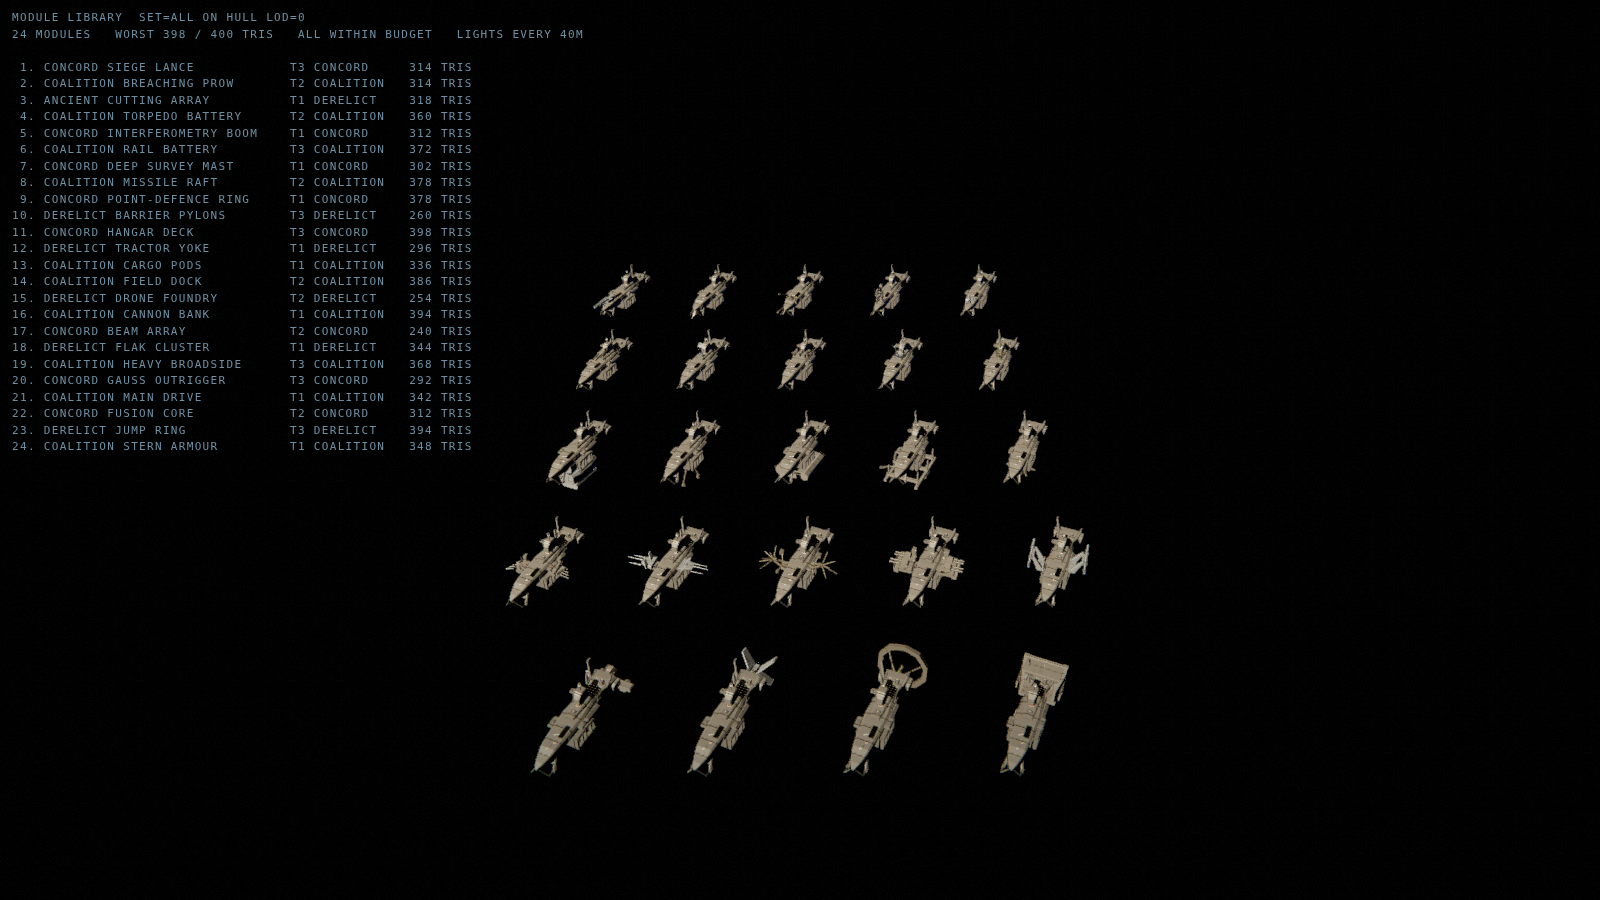
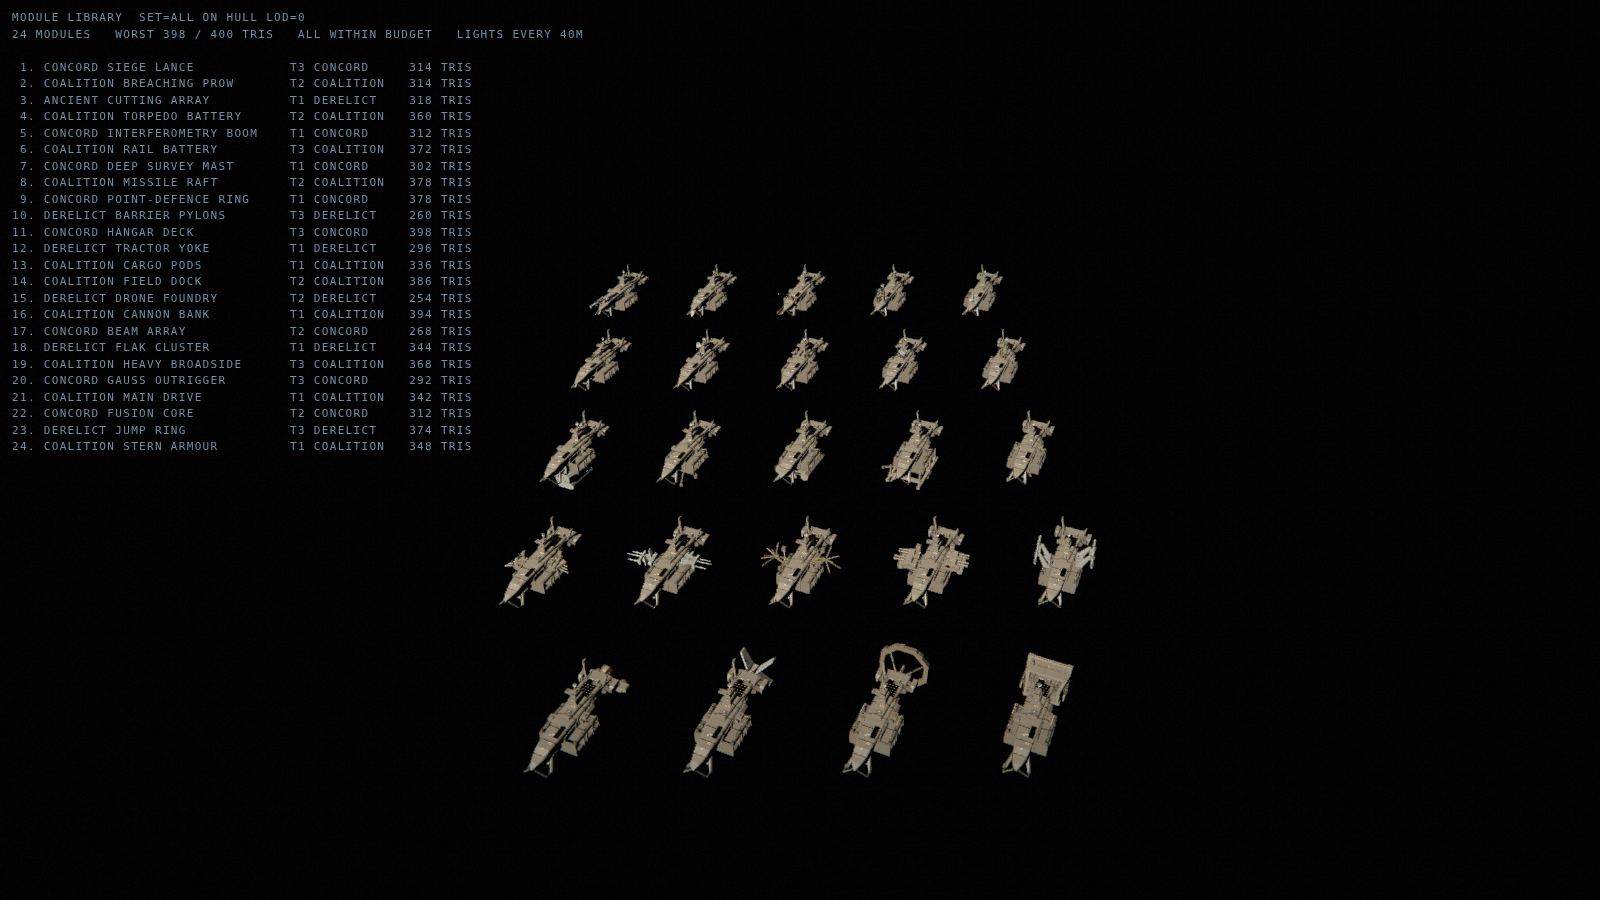
In-flight art work recovered after container restart
Claude-Session: https://claude.ai/code/session_015jvdszNLHKCdWey4BV1AZL

diff --git a/src/art/geometry/cruiser.js b/src/art/geometry/cruiser.js
@@ -940,11 +940,12 @@ export function hullParts({ rng, lod = 0 }) {
   // These three are, and all three are cheap:
   //
   //   the hangar mouth   54 x 34 m, i.e. three fighters wide (a fighter is 18 m)
-  //   the boat bay hatch 26 x 18 m, exactly one fighter
   //   the window band    5 m glazing, one storey                (built above)
   //
-  // The hangar is on the PORT flank only and the hatch is on the starboard foredeck,
-  // because a matched pair would read as styling rather than as function.
+  // There were three. The 26 x 18 m boat-bay hatch on the starboard foredeck is gone:
+  // one human-scale cue on each of two surfaces is a calibration, three is a habit,
+  // and the hatch was the smallest and least legible of them. The hangar is on the
+  // PORT flank only, because a matched pair would read as styling, not as function.
   // =========================================================================
   // The tunnel is bottomless on purpose: the hull's own tumblehome flank, which sits
   // 17 m down it and is not perpendicular to the mouth, is what you see at the end.
@@ -955,8 +956,9 @@ export function hullParts({ rng, lod = 0 }) {
     { pos: [-117, 6, -60], rot: [0, -Math.PI * 0.5, 0] });
 
   // =========================================================================
-  // 4. SPONSONS. Deliberately NOT mirrored: port owns z +60..+200, starboard owns
-  //    z -60..+80, so a fully fitted hull is never bilaterally symmetric (§6 M6).
+  // 4. SPONSONS. Deliberately NOT mirrored: port owns z +18..+102, starboard owns
+  //    z -152..-68 - 170 m apart - so a fully fitted hull is never bilaterally
+  //    symmetric (§6 M6). Both sit ON a cradle frame; see the note at the shelf.
   // =========================================================================
   for (const [s, cz] of [[-1, 60], [1, -110]]) {
     // THE SPONSON LANDS ON A CRADLE FRAME, and that is not a detail. Sitting between

diff --git a/docs/review/acceptance.md b/docs/review/acceptance.md
@@ -35,7 +35,7 @@ criterion requires running `npm run bench` on the target machine.
 |---|---|---|
 | Every module identifiable from silhouette alone at max tactical zoom | **PASS** | Measured, not argued. `src/art/geometry/modules/audit.mjs` fits every module of a mount to a real 1400 m cruiser, bins the fitted outline over the union of the envelopes, and holds all **46 same-mount pairs** to one and three pixels at the 30 px read (mean ≥ 46.7 m over the bins the two modules touch, peak ≥ 140 m). It printed **four failures** on its first honest run — see D29 — and every one is now closed by structure: the PD ring's stalks went 44 → 150 m and splayed outboard, the missile raft went wide and flat, the rail battery's turret and rails rose 16–20 m, and the cannon bank was slung *below* the mount plane with echeloned guns and its reach cut from 486 to 290 m against the beam array's 548. Worst pair is now `port_cannon_bank / port_beam_array` at mean 95 peak 149. The audit exits non-zero on a regression, so this cannot quietly rot back. Caveat kept: this measures the OUTLINE, which is what the criterion is about; it does not measure whether a player can *name* the module. |
 | Three loadouts of the same cruiser distinguishable in silhouette | **PASS** | `docs/probes/loadouts.png` prints **PASS**: A/B mean 84.2 max 313, A/C mean 89.3 max 358, B/C mean 78.5 max 441. Worst pair mean **78.5 against a target of 45**, worst max **313 against 120**. Closed exactly as the previous entry predicted — by making the ventral, engine and broadside modules much larger and much more cantilevered, and by separating the three ventral fits on three axes at once (cargo pods shallow/wide/long at −300 m; hangar deck deep/narrow/short at −540 m; field dock mid/widest/longest at −390 m). No two share a row, so the bottom of the ship names the build before a panel line resolves. |
-| Every faction ship class distinguishable from every other | **PASS** | Also measured now. `src/art/geometry/ships/audit.mjs` compares all **78 pairs** of the thirteen classes with both hulls NORMALISED TO 200 m, so the metric is about shape and not about size — a fleet of thirteen identical shapes at thirteen sizes would fail it — against the same one- and three-pixel targets at the 30 px read (6.7 m mean, 20 m peak at that length). `probes/ships.js` prints the five closest pairs at the foot of both silhouette sheets, so the picture carries its own audit. The measurement immediately named the PARTIAL this row used to carry: the **Whipcord** was the closest class to two others (7.1 m from the Concord strike craft, 7.5 m from the Meridian, floor 6.7) because a twin-boom is a razor edge-on. Fixed in the hull lines — 32° of wing dihedral, booms riding the knuckle 4.6 m above the nacelle, canted fins and a 7.4 m keel blade — for 12.6 → 22.3 m of height on a 95 m hull with the plan-view tail hole untouched. Worst pair is now 8.8 m, **every pair separated**. Ardent vs Bulwark and the Peregrine's crest, from the previous pass, both hold at 9.4 m and above. |
+| Every faction ship class distinguishable from every other | **PASS** | Also measured now. `src/art/geometry/ships/audit.mjs` compares all **78 pairs** of the thirteen classes with both hulls NORMALISED TO 200 m, so the metric is about shape and not about size — a fleet of thirteen identical shapes at thirteen sizes would fail it — against the same one- and three-pixel targets at the 30 px read (6.7 m mean, 20 m peak at that length). `probes/ships.js` prints the five closest pairs at the foot of both silhouette sheets, so the picture carries its own audit. The measurement immediately named the PARTIAL this row used to carry: the **Whipcord** was the closest class to two others (7.1 m from the Concord strike craft, 7.5 m from the Meridian, floor 6.7) because a twin-boom is a razor edge-on. Fixed in the hull lines — 32° of wing dihedral, booms riding the knuckle 4.6 m above the nacelle, canted fins and a 7.4 m keel blade — for 12.6 → 22.3 m of height on a 95 m hull with the plan-view tail hole untouched. Worst pair is now 8.8 m, **every pair separated**. Ardent vs Bulwark and the Peregrine's crest, from the previous pass, both hold at 9.4 m and above. **Round-one blind review passed this row and still found "Concord fails class-vs-class distinguishability — four sizes of the same swept arrowhead", and both were true**: the fleet-wide gate is one pixel, which is the floor for "not literally the same shape", not for "tellable apart in a fleet". A Coalition hull beside a Concord one is separated by design philosophy before it is separated by outline; two hulls of the SAME navy share hue, material, plate language and surface treatment, so the outline carries the whole load alone. The audit now also reports **intra-faction** pairs at a raised bar — 1.5 px mean and 6 px peak, 10.0 m and 40.0 m at the 200 m reference — and gates on it. It named two pairs on its first run: Coalition `monitor / destroyer` at 9.4 and Concord `corvette / frigate` at 8.9. Both are closed by structure rather than by size: the Sledge's gun house went 44 → 56 m tall with its director mast moved off the after deck onto the barbette, so the after half is the bare skeleton the class was always described as and the tallest thing on the ship sits over the gun (9.4 → 10.2); the Meridian grew a **single** auxiliary nacelle on a cantilevered pylon, starboard only, which cannot be got by scaling a corvette and makes it the one bilaterally unequal hull in either navy (8.9 → 11.2). All twenty intra-faction pairs now pass. |
 
 ## Lighting
 

diff --git a/docs/review/defects.md b/docs/review/defects.md
@@ -854,6 +854,27 @@ bare cruiser at **0.764**, which is the tightest margin in the set and the numbe
 — it is the 150-triangle proxy at the one distance where silhouette is the only
 information available. Everything else sits at 0.795–0.982.
 
+**REOPENED AND CLOSED AGAIN, DIFFERENTLY — the gate was the wrong instrument.** Blind
+round-one review looked at the LOD2 proxy this entry passed at 0.764 and called it "a
+fish with a caudal fin": the ventral bay throat, the ship's single identifying feature,
+had been closed into a solid rectangle, the superstructure deleted and the hooked cutter
+yoke straightened into a spike. **IoU cannot see any of that, and not because 0.72 is too
+low a floor.** Filling a hole adds the same pixels to the intersection and to the union,
+so closing the one void nothing else in the game has moves the ratio by less than the gap
+between two adjacent thresholds. A metric that is structurally blind to the defect it is
+supposed to catch cannot be tuned into seeing it.
+
+`tools/silhouette.mjs` still prints IoU — a level that shrinks or drifts is a real defect
+and IoU catches that — but the **gate** is now four direct questions asked of the LOD2
+mask itself, one per identity feature: the bay present as a through-void with its clear
+span intact (114 m, against R2.7's 87 m), the island present as a stepped stack (counted
+as plateaux along the mask's top edge, 5 against a floor of 3), the cutter yoke hooking
+(the outline must come back UP forward of its lowest point, −234 m to −200 m), and the
+stern block stepping in (transom half-beam against the waist's, 63 px to 28 px). The
+proxy was rebuilt outward from those four rather than inward from LOD0's volume, at
+214 → 370 triangles across the same two draw calls, and IoU rose to 0.811 as a side
+effect rather than as a target.
+
 ---
 
 ## Pass 10 — surface and material identity, round three
